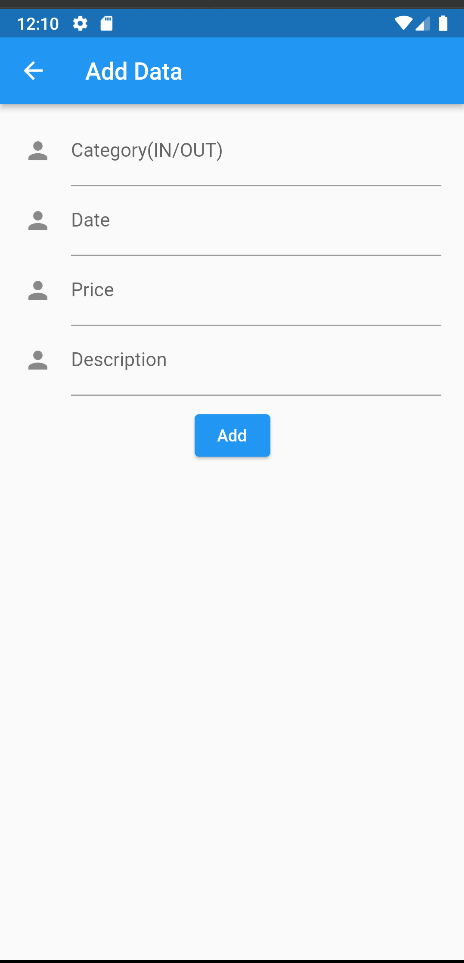
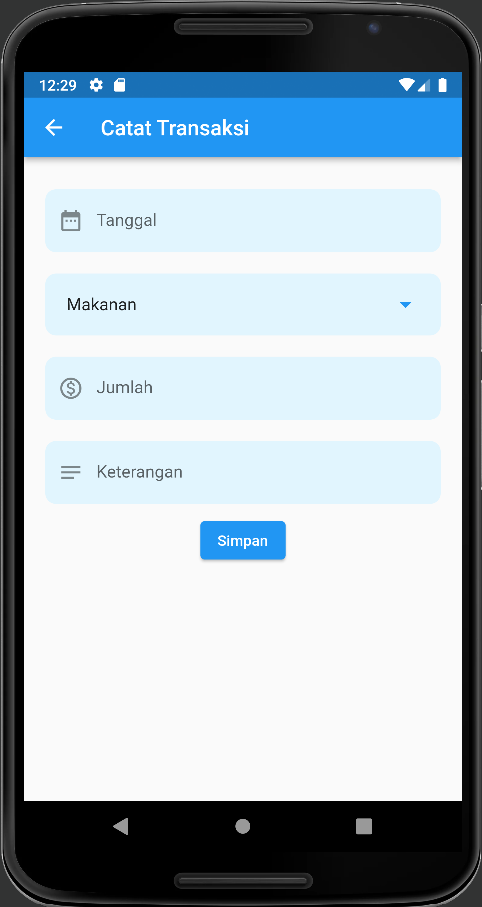
Revisi form add transaksi

diff --git a/lib/src/page/add_data.dart b/lib/src/page/add_data.dart
@@ -1,4 +1,6 @@
 import 'package:flutter/material.dart';
+import 'package:gap/gap.dart';
+import 'package:intl/intl.dart';
 
 class AddData extends StatefulWidget {
   const AddData({Key? key}) : super(key: key);
@@ -8,83 +10,185 @@ class AddData extends StatefulWidget {
 }
 
 class _AddDataState extends State<AddData> {
+
+
+  TextEditingController controller = TextEditingController();
+  TextEditingController controllerJumlah = TextEditingController();
+  TextEditingController controllerKeterangan = TextEditingController();
+
+  List<String> category_list = [
+    "Makanan",
+    "Sewa Kosan",
+    "Internet",
+    "Transportasi",
+    "Tagihan",
+    "Lain lain",
+  ];
+
+  String dropdownValue = "Makanan";
+
+
+
+
   @override
   Widget build(BuildContext context) {
+
     return Scaffold(
       appBar: AppBar(
-        title: Text("Add Data"),
+        title: Text("Catat Transaksi"),
       ),
-      body: Column(
+      body: ListView(
+
         children: [
+          // Text(controller.text),
           Container(
-            padding: EdgeInsets.symmetric(horizontal: 20, vertical: 10),
+            padding: const EdgeInsets.symmetric(horizontal: 20, vertical: 10),
             child: Column(
               children: [
-                TextFormField(
-                  decoration: const InputDecoration(
-                    icon: Icon(Icons.person),
-                    hintText: 'What do people call you?',
-                    labelText: 'Category(IN/OUT)',
+                const Gap(20),
+
+                // Container(
+                //   decoration: BoxDecoration(
+                //     borderRadius: BorderRadius.all(Radius.circular(20)),
+                //     color: Colors.lightBlue.shade50,
+                //   ),
+                //   child: Row(
+                //
+                //     children: [
+                //       ElevatedButton(
+                //           onPressed: (){},
+                //           child: Text("Pemasukan"),
+                //           style: ButtonStyle(
+                //             backgroundColor: MaterialStateProperty.all(Colors.lightBlue.shade50),
+                //           ),
+                //       ),
+                //       ElevatedButton(onPressed: (){}, child: Text("Pengeluaran")),
+                //     ],
+                //     mainAxisAlignment: MainAxisAlignment.spaceEvenly,
+                //   ),
+                // ),
+
+                TextField(
+                  controller: controller,
+                  readOnly: true,
+                  onTap: () async {
+                    DateTime?pickedDate = await showDatePicker(
+                        context: context,
+                        initialDate: DateTime.now(),
+                        firstDate: DateTime(2000),
+                        lastDate: DateTime(2101));
+
+                    if(pickedDate!=null){
+                      String formattedDate = DateFormat("dd-mm-yyyy").format(pickedDate);
+                      setState(() {
+                        controller.text = formattedDate.toString();
+                      });
+                    } else {
+                      print("no date");
+                    }
+
+                  },
+                  decoration: InputDecoration(
+
+                    // icon: Icon(Icons.person),
+                    fillColor: Colors.lightBlue.shade50,
+                    filled: true,
+                    prefixIcon: Icon(Icons.date_range),
+                    // prefixText: "Name  ",
+                    // prefix: Text("Hello"),
+                    // suffix: Text("Nama"),
+                    hintText: 'Tanggal',
+                    // hintStyle: TextStyle(fontWeight: FontWeight.bold),
+                    // labelText: 'Category(IN/OUT)',
+                    border: OutlineInputBorder(
+                        borderSide: BorderSide.none,
+                        borderRadius: BorderRadius.all(Radius.circular(10)))
+
                   ),
-                  onSaved: (String? value) {
-                    // This optional block of code can be used to run
-                    // code when the user saves the form.
-                  },
-                  validator: (String? value) {
-                    return (value != null && value.contains('@')) ? 'Do not use the @ char.' : null;
-                  },
                 ),
-                TextFormField(
-                  decoration: const InputDecoration(
-                    icon: Icon(Icons.person),
-                    hintText: 'What do people call you?',
-                    labelText: 'Date',
+                const Gap(20),
+                Container(
+                  padding: EdgeInsets.symmetric(horizontal: 20, vertical: 5),
+                  decoration: BoxDecoration(
+                    borderRadius: BorderRadius.all(Radius.circular(10)),
+                    color: Colors.lightBlue.shade50
                   ),
-                  onSaved: (String? value) {
-                    // This optional block of code can be used to run
-                    // code when the user saves the form.
-                  },
-                  validator: (String? value) {
-                    return (value != null && value.contains('@')) ? 'Do not use the @ char.' : null;
-                  },
-                ),
-                TextFormField(
-                  decoration: const InputDecoration(
-                    icon: Icon(Icons.person),
-                    hintText: 'What do people call you?',
-                    labelText: 'Price',
+                  child: DropdownButton(
+                      dropdownColor: Colors.blue.shade50,
+                      underline: Container(),
+                      value: dropdownValue,
+                      borderRadius: BorderRadius.all(Radius.circular(20)),
+                      isExpanded: true,
+                      iconSize: 26.0,
+                      iconEnabledColor: Colors.blue,
+                      // value: selected,
+                      
+                      items: category_list.map((e) =>
+                          DropdownMenuItem(
+                            value: e,
+                            child: Text(e),
+                      )).toList(),
+                      // value: _dropdownValue,
+                      onChanged: (String? value){
+                        setState(() {
+                          dropdownValue = value!;
+                        });
+                      }
                   ),
-                  onSaved: (String? value) {
-                    // This optional block of code can be used to run
-                    // code when the user saves the form.
-                  },
-                  validator: (String? value) {
-                    return (value != null && value.contains('@')) ? 'Do not use the @ char.' : null;
-                  },
                 ),
-                TextFormField(
-                  decoration: const InputDecoration(
-                    icon: Icon(Icons.person),
-                    hintText: '',
-                    labelText: 'Description',
+                const Gap(20),
+                TextField(
+                  keyboardType: TextInputType.number,
+                  controller: controllerJumlah,
+                  onTap: () {
+
+
+                  },
+                  decoration: InputDecoration(
+
+                    // icon: Icon(Icons.person),
+                      fillColor: Colors.lightBlue.shade50,
+                      filled: true,
+                      prefixIcon: Icon(Icons.monetization_on_outlined),
+                      hintText: 'Jumlah',
+                      // hintStyle: TextStyle(fontWeight: FontWeight.bold),
+                      border: OutlineInputBorder(
+                          borderSide: BorderSide.none,
+                          borderRadius: BorderRadius.all(Radius.circular(10)))
+
                   ),
-                  onSaved: (String? value) {
-                    // This optional block of code can be used to run
-                    // code when the user saves the form.
-                  },
-                  validator: (String? value) {
-                    return (value != null && value.contains('@')) ? 'Do not use the @ char.' : null;
-                  },
                 ),
+                const Gap(20),
+                TextField(
+                  controller: controllerKeterangan,
+                  onTap: () {
+
+
+                  },
+                  decoration: InputDecoration(
+                      fillColor: Colors.lightBlue.shade50,
+                      filled: true,
+                      prefixIcon: Icon(Icons.notes_outlined),
+                      hintText: 'Keterangan',
+                      // hintStyle: TextStyle(fontWeight: FontWeight.bold),
+                      border: OutlineInputBorder(
+                          borderSide: BorderSide.none,
+                          borderRadius: BorderRadius.all(Radius.circular(10)))
+
+                  ),
+                ),
+
               ],
             ),
           ),
-          ElevatedButton(
-              onPressed: (){
-                print("add data to db");
-                Navigator.pop(context);
-              },
-              child: Text("Add")
+          Center(
+            child: ElevatedButton(
+                onPressed: (){
+                  print("add data to db ${controller}");
+                  // Navigator.pop(context);
+                },
+                child: Text("Simpan")
+            ),
           ),
         ],
       ),

diff --git a/lib/src/page/home_page.dart b/lib/src/page/home_page.dart
@@ -17,8 +17,8 @@ class _HomePageState extends State<HomePage> {
             height: 300,
             padding: EdgeInsets.symmetric(horizontal: 30, vertical: 30),
             decoration: BoxDecoration(
-              borderRadius: BorderRadius.circular(12),
               image: DecorationImage(
+                fit: BoxFit.fill,
                 image: AssetImage("assets/images/image1.jpg")
               )
             ),

diff --git a/lib/src/widgets/input_string.dart b/lib/src/widgets/input_string.dart
@@ -1,0 +1,17 @@
+import 'package:flutter/material.dart';
+
+class InputString extends StatelessWidget {
+  const InputString({Key? key}) : super(key: key);
+
+  @override
+  Widget build(BuildContext context) {
+    return Row(
+      children: [
+        Text("Name"),
+        TextField(
+
+        ),
+      ],
+    );
+  }
+}
